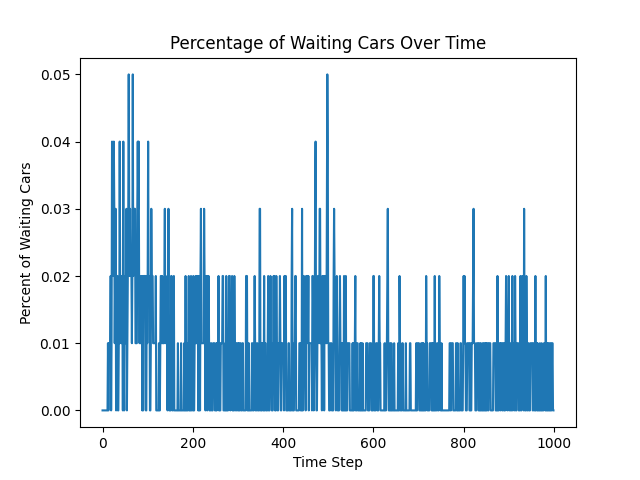
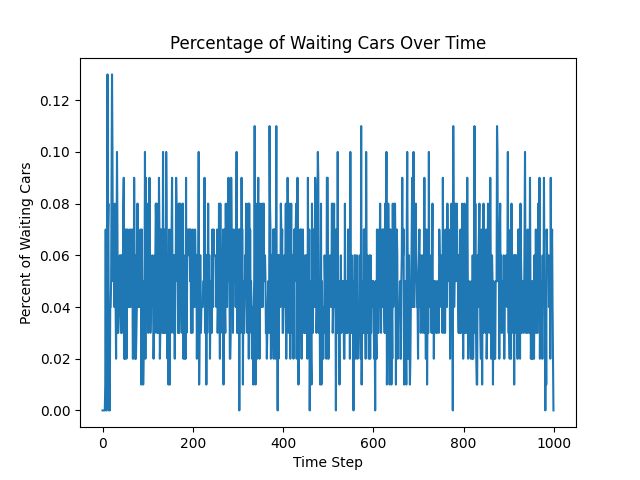
Now we prefer to switch into the less busy lane.

diff --git a/simulation.py b/simulation.py
@@ -118,13 +118,20 @@ class Simulation:
 
       # Define a color map for each driving type
       
-      # Plot cars
+      # Plot cars based on technique
       for lane in range(self.num_lanes):
          lane_positions = positions[lane]
          driving_types = [self.cars[car_index].technique for car_index in self.lanes[lane]]
          colors = [self.driving_type_colors[driving_type] for driving_type in driving_types]
          plt.scatter(lane_positions, [lane * .05] * len(lane_positions), color=colors, label=f'Lane {lane}')
-         
+
+      # # Plot cars based on whether they are waiting
+      # for lane in range(self.num_lanes):
+      #    lane_positions = positions[lane]
+      #    are_waiting = [self.cars[car_index].waiting_for >= self.cars[car_index].patience for car_index in self.lanes[lane]]
+      #    colors = ['red' if waiting else 'yellow' for waiting in are_waiting]
+      #    plt.scatter(lane_positions, [lane * .05] * len(lane_positions), color=colors, label=f'Lane {lane}')
+
       # Add labels to plot
       plt.xlabel('Position')
       plt.ylabel('Lane')
@@ -178,7 +185,7 @@ class Simulation:
             car.waiting_for += 1
          else:
             car.speed = min(car.desired_speed, car.speed + car.accel)
-            car.waiting_for = 0
+            # car.waiting_for = 0
 
          # make sure the car is still in bounds
          car.check_bounds(self.lane_length)
@@ -199,10 +206,17 @@ class Simulation:
          elif current_lane == self.num_lanes - 1:
             target_lanes = [self.num_lanes - 2]
          else:
+            target_lanes = [current_lane + 1, current_lane - 1]
             # randomize the order of the target lanes
-            target_lane = [current_lane + 1, current_lane - 1]
-            if np.random.random() < 0.5:
-               target_lanes = target_lane[::-1]
+            # if np.random.random() < 0.5:
+            #    target_lanes = target_lane[::-1]
+
+            #
+            if len(self.lanes[target_lanes[1]]) < len(self.lanes[target_lanes[0]]):
+               target_lanes = target_lanes[::-1]
+            
+            # pick the lane with less people in it!
+
          
          # check to see if the target lane is available
          for target_lane in target_lanes:
@@ -306,7 +320,7 @@ class Simulation:
 
 
 if __name__ == "__main__":
-   highway_sim = Simulation(100, 1, [1, 0, 0], 3, 150)
+   highway_sim = Simulation(100, 1, [.1, .4, .5], 5, 150)
    highway_sim.run(1000, True)
    
    
